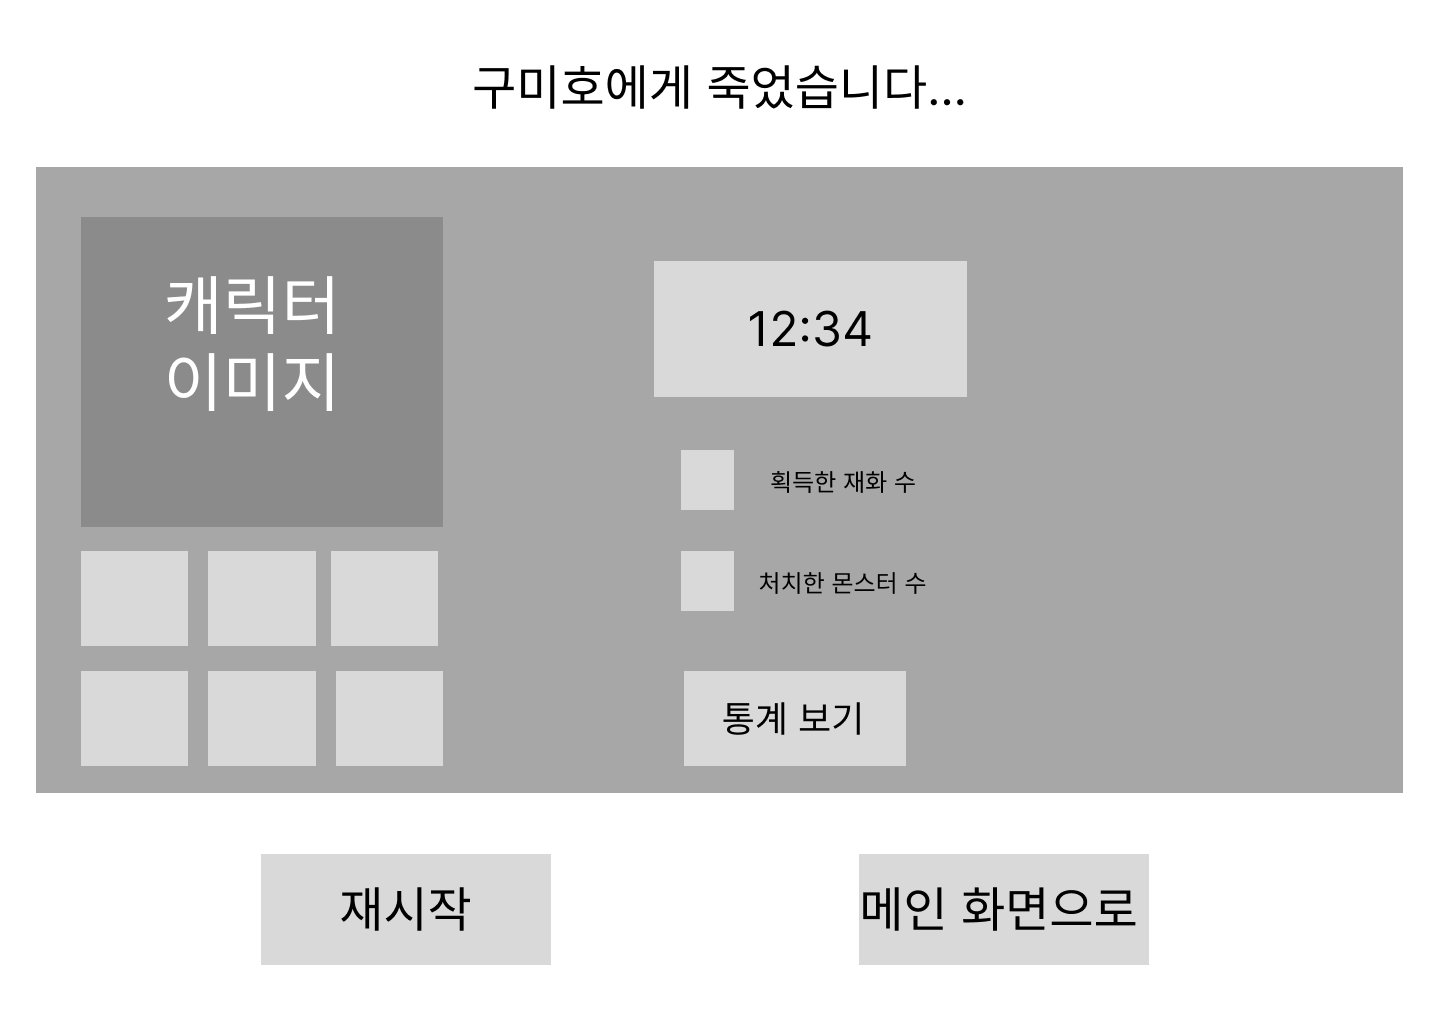
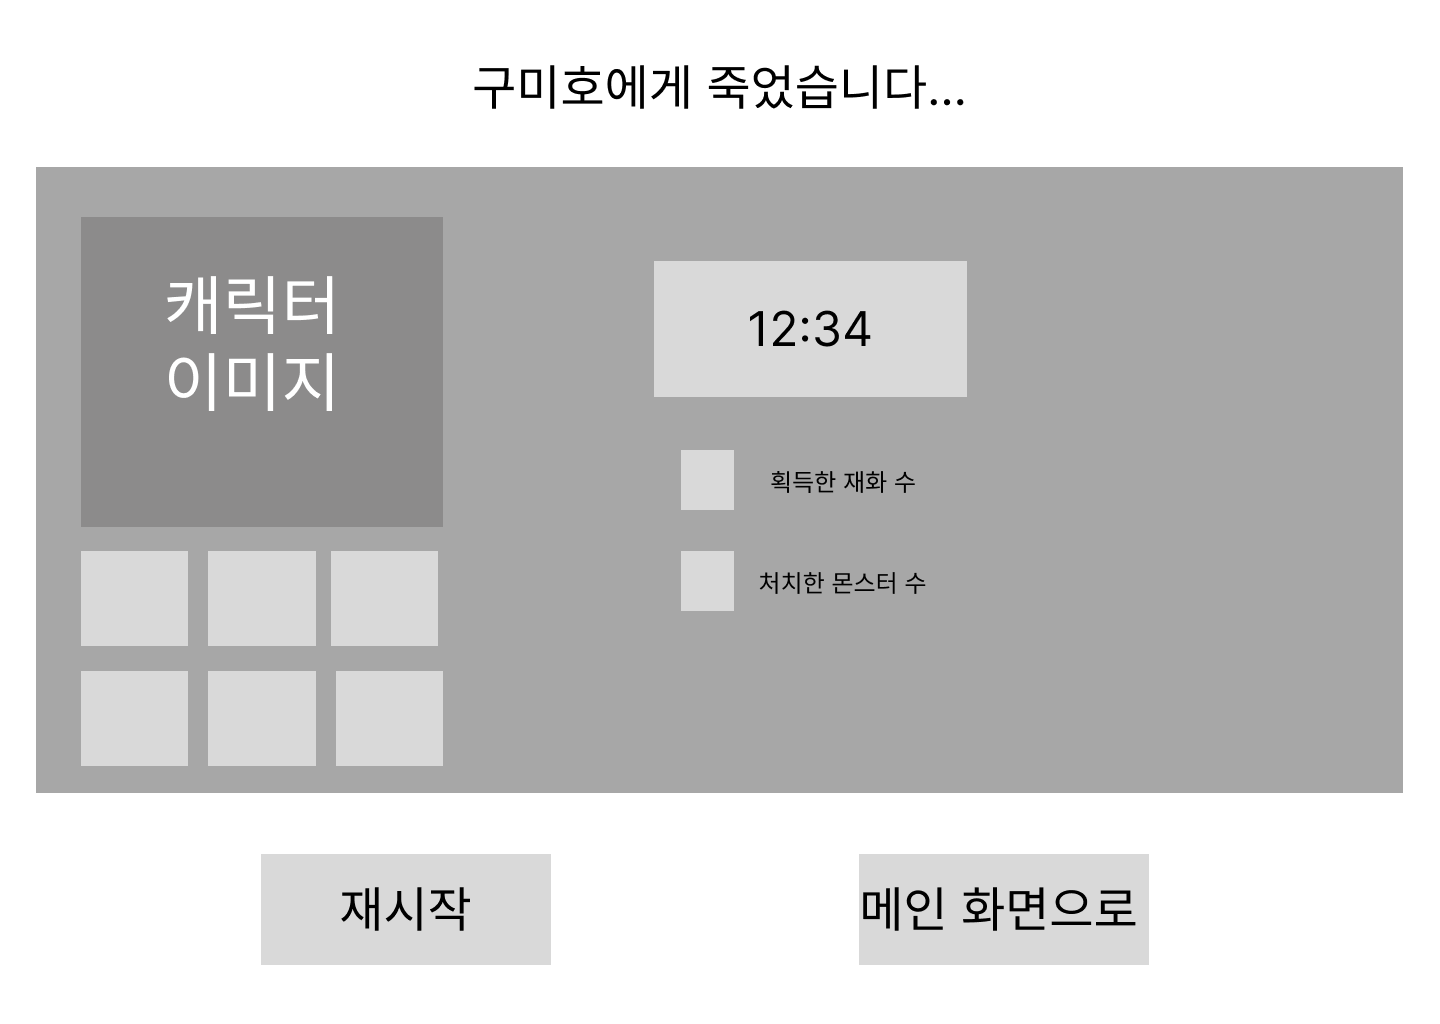
usecase 추가 및 ui프로토타입 수정
doc: UseCase 14 15 추가 / ui 프로토타입 통계 부분 제거

Changed region(s): [[0.4688, 0.6562, 0.6562, 0.75]]

diff --git a/docs/02_SDS.md b/docs/02_SDS.md
@@ -164,6 +164,77 @@
 | **<Concurrency>**       | (동시성)     |
 | **Due Date**            | (개발 마감일)  |
 
+#### Use case #[14] : 게임을 재시작한다
+
+| **GENERAL CHARACTERISTICS** | |
+| :--- | :--- |
+| **Summary** | 플레이어가 결과 화면에서 다시 게임씬으로 가는 기능 |
+| **Scope** | Game system |
+| **Level** | User level |
+| **Author** | 김도경 |
+| **Last Update** | 2025. 11. 06 |
+| **Status** | Analysis |
+| **Primary Actor** | 플레이어 |
+| **Preconditions** | 게임 오버나 게임 클리어  결과 화면이어야 한다. |
+| **Trigger** | 플레이어가 '재시작' 버튼을 클릭했을 때 |
+| **Success Post Condition** | 게임 씬으로 다시 들어간다.|
+| **Failed Post Condition** | 실패 조건 없음 |
+
+| **MAIN SUCCESS SCENARIO** | |
+| :--- | :--- |
+| **Step** | **Action** |
+| S | 플레이어가 게임이 끝나 결과 화면을 본다. |
+| 1 | 이 Use case는 플레이어가 결과 화면의 '재시작'버튼을 누르면 시작된다. |
+| 2 | 게임 씬으로 다시 들어간다.|
+| 3 | 이 Use case는 성공적으로 게임씬으로 다시 들어가면 종료된다.|
+
+| **EXTENSION SCENARIOS** | |
+| :--- | :--- |
+| **Step** | **Branching Action** |
+| -| - |
+
+| **RELATED INFORMATION** | |
+| :--- | :--- |
+| **Performance** | 씬 로딩 시간 ≤ 3초 |
+| **Frequency** | 세션 당 1회 |
+| **Concurrency** |none |
+| **Due Date** | |
+
+#### Use case #[15] : 메인화면으로 돌아간다.
+
+| **GENERAL CHARACTERISTICS** | |
+| :--- | :--- |
+| **Summary** | 게임씬에서 메인 화면으로 넘어가는 기능 |
+| **Scope** | Game system |
+| **Level** | User level |
+| **Author** | 김도경 |
+| **Last Update** | 2025.11.06 |
+| **Status** | Analysis |
+| **Primary Actor** | 플레이어 |
+| **Preconditions** | 게임 오버나 게임 클리어  결과 화면이어야 한다. |
+| **Trigger** | 결과 화면에서 '메인 화면' 버튼을 누른다 |
+| **Success Post Condition** | 메인 화면으로 돌아간다. |
+| **Failed Post Condition** | 실패 조건 없음 |
+
+| **MAIN SUCCESS SCENARIO** | |
+| :--- | :--- |
+| **Step** | **Action** |
+| S | 플레이어가 게임이 끝나 결과 화면을 본다.
+| 1 | 이 Use case는 플레이어가 결과 화면의 '메인 화면'버튼을 누르면 시작된다.
+| 2 | 메인 화면으로 돌아간다. |
+| 3 |이 Use case는 성공적으로 메인 화면으로 돌아가면 종료된다. |
+
+| **EXTENSION SCENARIOS** | |
+| :--- | :--- |
+| **Step** | **Branching Action** |
+| -| - |
+
+| **RELATED INFORMATION** | |
+| :--- | :--- |
+| **Performance** | 메인 화면 로딩 시간 ≤ 3seconds |
+| **Frequency** | 게임이 끝날 때 마다 한번 |
+| **Concurrency** | none|
+| **Due Date** |  |
 ---
 
 ## 3. Class diagram
@@ -801,7 +872,7 @@
 ![GameClear](imgs/UI_Prototype/Game_Clear.png)
 
 
-&ensp;상단 중앙에 클리어 메시지를 출력하여 게임이 끝났다는 것을 알려준다. 좌측에는 플레이한 캐릭터의 이미지와 장착한 장비들을 보여준다. 우측에는 플레이한 시간, 획득한 재화 그리고 처치한 몬스터의 수를 보여준다. 통계 보기 버튼을 누르면 통계 창으로 넘어간다. 하단의 재시작 버튼을 누르면 게임을 처음부터 다시 시작한다. 메인 화면 버튼을 누르면 메인 화면으로 넘어간다.
+&ensp;상단 중앙에 클리어 메시지를 출력하여 게임이 끝났다는 것을 알려준다. 좌측에는 플레이한 캐릭터의 이미지와 장착한 장비들을 보여준다. 우측에는 플레이한 시간, 획득한 재화 그리고 처치한 몬스터의 수를 보여준다. 하단의 재시작 버튼을 누르면 게임을 처음부터 다시 시작한다. 메인 화면 버튼을 누르면 메인 화면으로 넘어간다.
 
 
 ### 6.17 게임 오버 화면
@@ -812,13 +883,6 @@
 
 &ensp;상단 중앙에 ‘플레이어를 죽인 몹에게 죽었습니다.’ 메시지를 출력한다. 나머지는 클리어 UI와 동일하다.
 
-### 6.18 게임 통계 화면 
-*아래 [그림 6-18]은 '게임 클리어'나 '게임 오버' UI에서 '통계 보기' 버튼을 눌렀을 때 나타나는 상세 통계 UI 프로토타입입니다.
-
-![GameOver](imgs/UI_Prototype/Game_statistics.png)
-
-
-&ensp;통계화면은 '적에게 준 총 데미지', '처치한 몬스터 수', '획득한 재화 수', '받은 피해량' 등과 같이 게임 플레이 중에 집계된 여러 통계 자료의 정확한 수치들을 자세히 보여줍니다.
 
 ---
 
